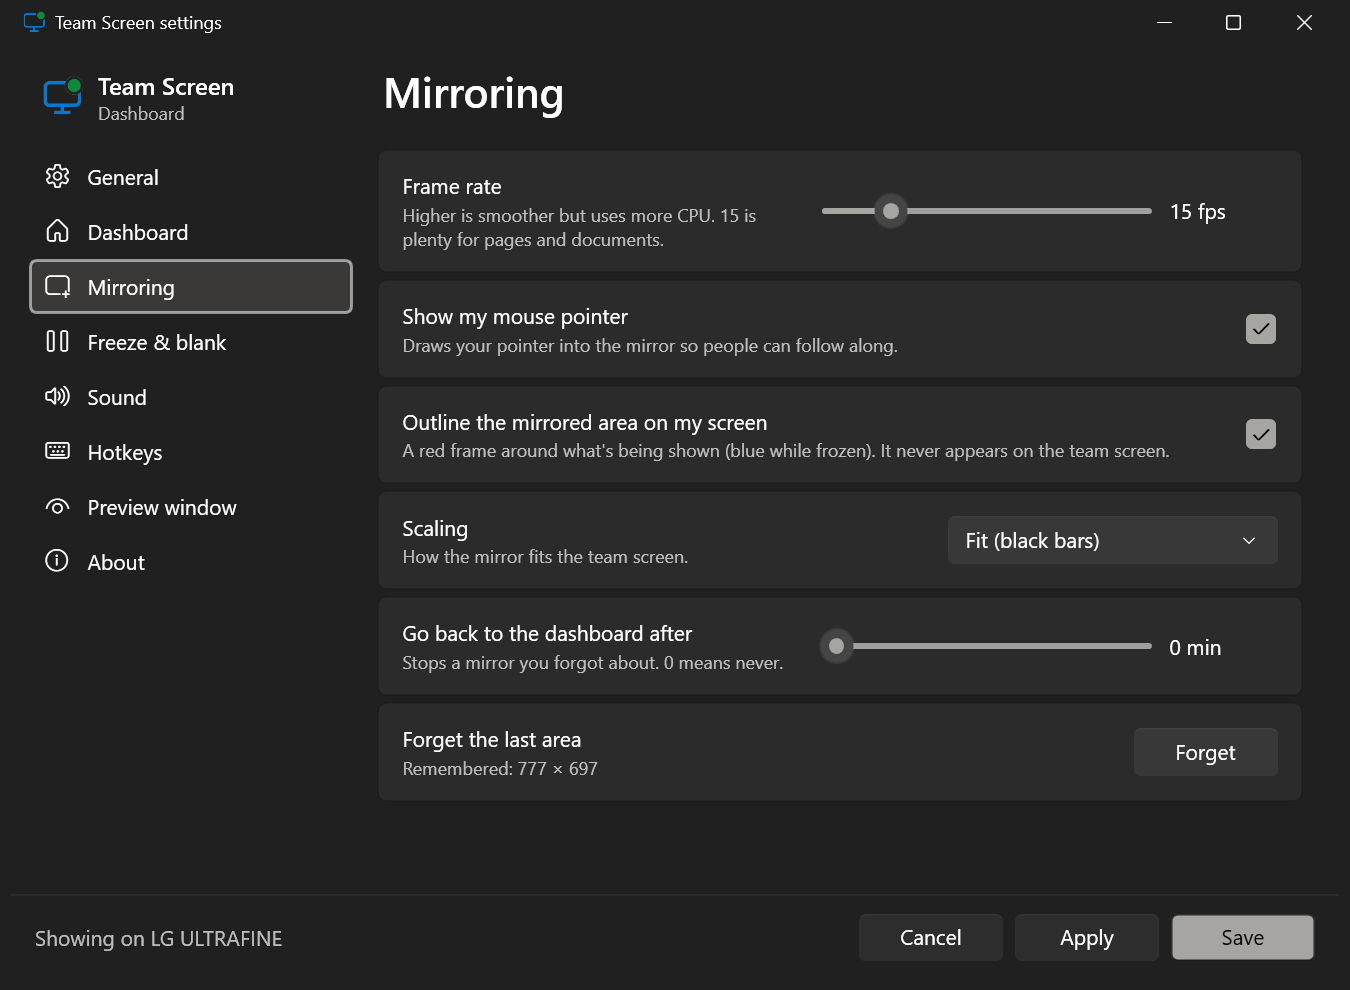
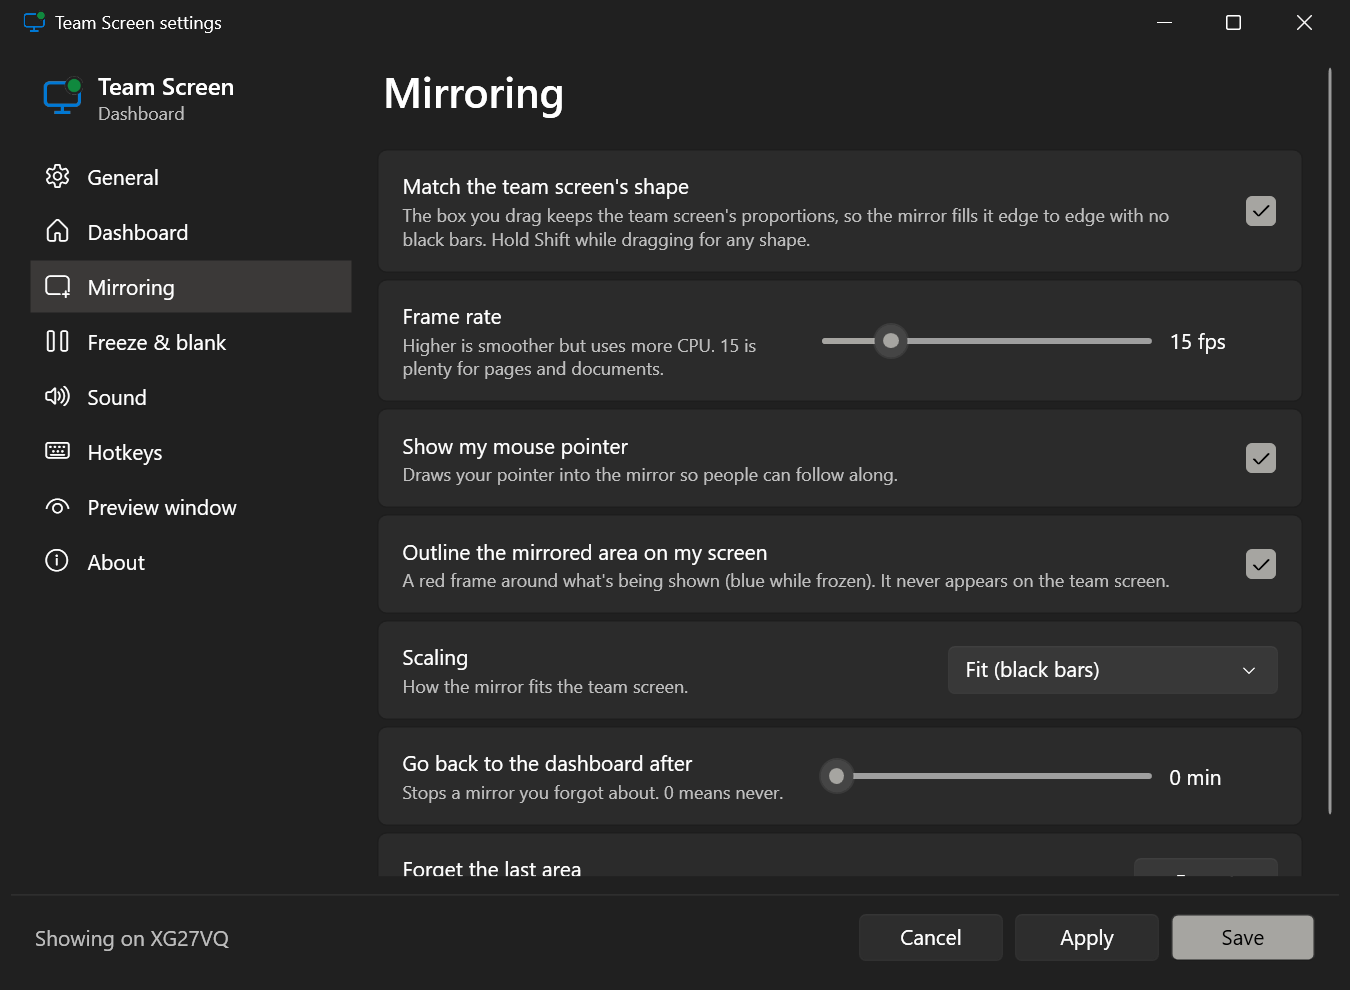
Fill the team screen: fix stuck-small window, shape-locked area picking
Switching the team screen to another monitor while running could leave
the display window at its 400x300 restore size instead of maximised.
Size it to the monitor's exact pixels (before and after show) instead
of relying on WindowState.Maximized.

The area picker now keeps the team screen's aspect ratio while you drag
so the mirror fills it edge to edge; hold Shift for a free-form box.
New setting: Mirroring > Match the team screen's shape (on by default).

diff --git a/Overlays.cs b/Overlays.cs
@@ -15,17 +15,17 @@ namespace TeamScreen;
 public static class Placement
 {
     /// <summary>
-    /// Put a borderless window exactly over a monitor (physical px). Moving the handle there before
-    /// showing lets WPF settle that monitor's DPI; maximising then fills it with no rounding gaps.
+    /// Put a borderless window exactly over a monitor (physical px). Sized directly rather than maximised:
+    /// re-maximising an already-shown window onto another monitor could leave it stuck at its restore size.
+    /// Applied before showing (so the handle lands on that monitor and WPF settles its DPI) and again after.
     /// </summary>
     public static void FillMonitor(Window w, Rect32 bounds)
     {
         w.WindowStartupLocation = WindowStartupLocation.Manual;
-        if (w.WindowState == WindowState.Maximized) w.WindowState = WindowState.Normal;
-        var h = new WindowInteropHelper(w).EnsureHandle();
-        Native.SetWindowPos(h, IntPtr.Zero, bounds.X + 50, bounds.Y + 50, 400, 300, Native.SWP_NOZORDER | Native.SWP_NOACTIVATE);
+        w.WindowState = WindowState.Normal;
+        SetBounds(w, bounds, w.Topmost);
         if (!w.IsVisible) w.Show();
-        w.WindowState = WindowState.Maximized;
+        SetBounds(w, bounds, w.Topmost);
     }
 
     /// <summary>Exact physical-pixel rectangle; applied twice because the first move can trigger a DPI rescale.</summary>
@@ -45,7 +45,8 @@ public static class AreaPicker
 
     public static bool IsOpen => open != null;
 
-    public static void Pick(IEnumerable<MonitorInfo> monitors, Action<Rect32> picked)
+    /// <param name="aspect">Width/height to lock the box to (the team screen's shape, so the mirror fills it). Shift drags free-form.</param>
+    public static void Pick(IEnumerable<MonitorInfo> monitors, double? aspect, Action<Rect32> picked)
     {
         if (open != null) return;
         Native.POINT? start = null;
@@ -70,7 +71,16 @@ public static class AreaPicker
             {
                 if (start is not { } s) return;
                 Native.GetCursorPos(out var p);
-                selection = Rect32.FromLTRB(Math.Min(s.X, p.X), Math.Min(s.Y, p.Y), Math.Max(s.X, p.X), Math.Max(s.Y, p.Y));
+                int dx = p.X - s.X, dy = p.Y - s.Y;
+                if (aspect is { } a && !Keyboard.Modifiers.HasFlag(ModifierKeys.Shift))
+                {
+                    // Grow the short side to match the team screen's shape, keeping the drag direction.
+                    int w = Math.Abs(dx), h = Math.Abs(dy);
+                    if (w > h * a) h = (int)Math.Round(w / a); else w = (int)Math.Round(h * a);
+                    dx = dx < 0 ? -w : w;
+                    dy = dy < 0 ? -h : h;
+                }
+                selection = Rect32.FromLTRB(Math.Min(s.X, s.X + dx), Math.Min(s.Y, s.Y + dy), Math.Max(s.X, s.X + dx), Math.Max(s.Y, s.Y + dy));
                 foreach (var o in open!) o.ShowSelection(selection);
             };
             w.MouseLeftButtonUp += (_, _) =>
@@ -120,7 +130,7 @@ public static class AreaPicker
                 Child = new TextBlock
                 {
                     Foreground = Brushes.White, FontSize = 15, FontFamily = new FontFamily("Segoe UI Variable Text, Segoe UI"),
-                    Text = "Drag to choose what the team screen shows   ·   Click to show this whole screen   ·   Esc to cancel",
+                    Text = "Drag to choose what the team screen shows (hold Shift for any shape)   ·   Click to show this whole screen   ·   Esc to cancel",
                 },
             };
             canvas.Children.Add(box);

diff --git a/SettingsWindow.xaml.cs b/SettingsWindow.xaml.cs
@@ -212,6 +212,7 @@ public partial class SettingsWindow : Window
     }
 
     UIElement MirroringPage() => PageOf("Mirroring",
+        Card("Match the team screen's shape", "The box you drag keeps the team screen's proportions, so the mirror fills it edge to edge with no black bars. Hold Shift while dragging for any shape.", Switch(nameof(AppSettings.LockAreaShape))),
         Card("Frame rate", "Higher is smoother but uses more CPU. 15 is plenty for pages and documents.", SliderFor(nameof(AppSettings.Fps), 5, 60, "fps", 5)),
         Card("Show my mouse pointer", "Draws your pointer into the mirror so people can follow along.", Switch(nameof(AppSettings.ShowCursor))),
         Card("Outline the mirrored area on my screen", "A red frame around what's being shown (blue while frozen). It never appears on the team screen.", Switch(nameof(AppSettings.HighlightArea))),

diff --git a/Controller.cs b/Controller.cs
@@ -235,7 +235,9 @@ public sealed class Controller : IDisposable
         if (AreaPicker.IsOpen) return;
         // Leave the team screen itself out: your team shouldn't see the picker, and mirroring it onto itself is pointless.
         var sources = Monitors.All().Where(m => !m.Id.Equals(Settings.MonitorId, StringComparison.OrdinalIgnoreCase) || m.Mirrored).ToList();
-        AreaPicker.Pick(sources, r => _ = MirrorArea(r));
+        var team = ResolveMonitor();
+        double? aspect = Settings.LockAreaShape && team != null ? (double)team.Bounds.Width / team.Bounds.Height : null;
+        AreaPicker.Pick(sources, aspect, r => _ = MirrorArea(r));
     }
 
     public void MirrorLastArea()

diff --git a/Settings.cs b/Settings.cs
@@ -66,6 +66,7 @@ public sealed class AppSettings
     public int Fps { get; set; } = 15;
     public bool ShowCursor { get; set; } = true;
     public bool HighlightArea { get; set; } = true;
+    public bool LockAreaShape { get; set; } = true;
     public FrameScaling Scaling { get; set; } = FrameScaling.Fit;
     public int AutoReturnMinutes { get; set; }
     public int[]? LastArea { get; set; }

diff --git a/README.md b/README.md
@@ -19,7 +19,7 @@ Windows gives a second monitor two modes: **duplicate** (it shows exactly what o
 | Feature | What it does |
 |---|---|
 | **Dashboard** | Big clock, date, optional message and a 2-day weather forecast. Or use any web page instead (e.g. a Home Assistant dashboard). |
-| **Mirror an area** | Drag a box anywhere on your screens and it streams live. A click without dragging takes a whole screen. A red outline shows what's live; it's excluded from capture, so it never appears on the team screen. |
+| **Mirror an area** | Drag a box anywhere on your screens and it streams live, filling the team screen edge to edge (the box keeps the team screen's shape; hold Shift for any shape). A click without dragging takes a whole screen. A red outline shows what's live; it's excluded from capture, so it never appears on the team screen. |
 | **Mirror a window** | Streams one window, even when it's covered by other windows. |
 | **Show your clipboard** | Snip with Win+Shift+S, then put the picture up. A copied file or link works too. |
 | **Drag and drop** | Drop files or links on the preview window to put them up. |
@@ -52,7 +52,7 @@ All of them can be changed in **Settings → Hotkeys** (click a box, press the n
 |---|---|
 | `Ctrl` `Alt` `L` | Turn the team screen on/off |
 | `Ctrl` `Alt` `H` | Show the dashboard |
-| `Ctrl` `Alt` `R` | Mirror an area (drag a box) |
+| `Ctrl` `Alt` `R` | Mirror an area (drag a box; Shift = any shape) |
 | `Ctrl` `Alt` `Shift` `R` | Mirror the last area again |
 | `Ctrl` `Alt` `N` | Mirror the window you're in |
 | `Ctrl` `Alt` `P` | Show what's on your clipboard |
